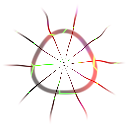
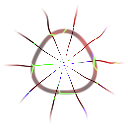
fix(art): replace repeated damage dots with irregular aggregate chips
Refs #362

diff --git a/scripts/content/combat_effect_assets.py b/scripts/content/combat_effect_assets.py
@@ -1,7 +1,7 @@
 """特效和损伤遮罩的唯一源；生成或 --check 核对 Rendering/Effects/。"""
 
 import argparse
-from math import atan2, floor, hypot, sin
+from math import atan2, cos, floor, hypot, sin, tau
 from pathlib import Path
 import sys
 
@@ -42,9 +42,14 @@ def rgba(*channels):
     return tuple(round(max(0, min(1, value)) * 255) for value in channels)
 
 
+CHIPS = tuple((hash_value(i, 71), hash_value(i, 83),
+               .025 + hash_value(i, 97) * .11, .02 + hash_value(i, 113) * .075,
+               hash_value(i, 127) * tau) for i in range(9))
+
+
 def damage_pixel(x, y):
     u, v = (x + .5) / SIZE, (y + .5) / SIZE
-    coarse = grain(u, v)
+    coarse = noise(u, v, 3) * .55 + noise(u, v, 7) * .3 + noise(u, v, 19) * .15
     distances = []
     cx, cy = floor(u * 4), floor(v * 4)
     for dy in range(-1, 2):
@@ -55,7 +60,15 @@ def damage_pixel(x, y):
             distances.append(hypot(u * 4 - px, v * 4 - py))
     distances.sort()
     crack = 1 - smooth(.015, .065, distances[1] - distances[0])
-    spall = (1 - smooth(.12, .36, distances[0])) * smooth(.35, .65, coarse)
+    spall = 0
+    chipped_edge = (noise(u, v, 37) - .5) * .55
+    aggregate = .55 + .45 * smooth(.35, .7, noise(u, v, 61))
+    for px, py, width, height, rotation in CHIPS:
+        dx, dy = (u - px + .5) % 1 - .5, (v - py + .5) % 1 - .5
+        rx = abs((dx * cos(rotation) - dy * sin(rotation)) / width)
+        ry = abs((dx * sin(rotation) + dy * cos(rotation)) / height)
+        edge = max(rx + ry * .42, ry + rx * .22) + chipped_edge
+        spall = max(spall, (1 - smooth(.94, 1.02, edge)) * aggregate)
     angle = atan2(v - .5, u - .5)
     radius = hypot(u - .5, v - .5)
     spoke = 1 - smooth(.02, .13, abs(sin(angle * 5 + noise(u, v, 8) * .55)))
